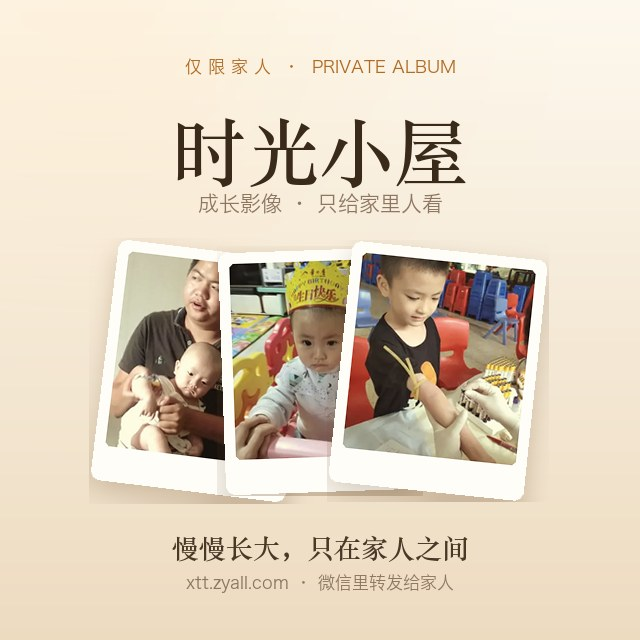
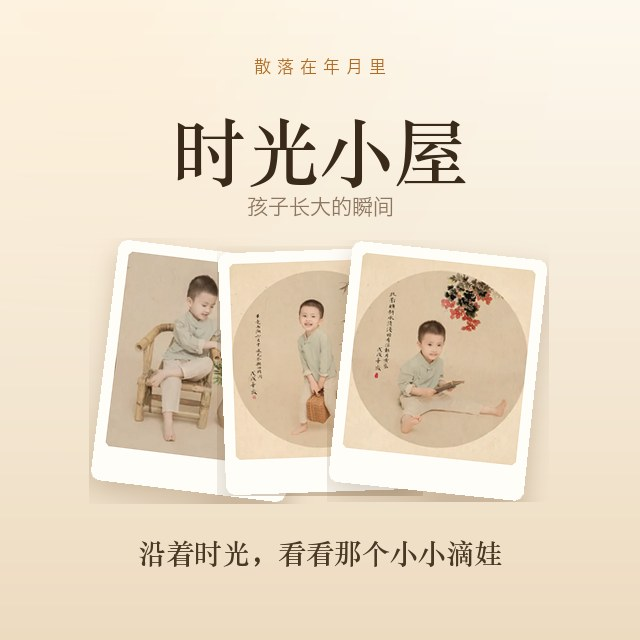
分享卡片定稿：改用用户手挑的 46/47/48 三张，副标题下移 3px
1) 选片写死为候选表里的 46 / 47 / 48（DEFAULT_PHOTOS）：同一套国风写真，
   米白底 + 圆形构图，跟奶油色卡片底色几乎是同一个色系，不需要再靠暖调硬拉。
   自动打分只能判「有没有人、颜色搭不搭」，判不了「好不好看」，所以定稿不走算法。
   rank>0 仍可回退到自动选片继续出候选。
2) 副标题「孩子长大的瞬间」y 192 → 195。
3) 新增 .workbuddy/icons/make_contact_sheet.py：生成 48 格带编号的候选接触表，
   换片时重跑一次就能继续按号点选。

diff --git a/.workbuddy/icons/make_share_card.py b/.workbuddy/icons/make_share_card.py
@@ -62,6 +62,15 @@ AMBER = (176, 106, 34)
 
 SAMPLE = 140          # 从全量里抽样评估的张数（全量 2000+，逐张跑人脸太慢）
 
+# 定稿选片：2026-11-06 用户从 48 张候选表里手挑的 46 / 47 / 48，
+# 同一套国风写真，米白底 + 圆形构图，和奶油色卡片底色几乎同源。
+# 自动打分能判「有没有人、颜色搭不搭」，判不了「好不好看」，所以定稿写死。
+DEFAULT_PHOTOS = [
+    'gallery/thumbs/d3/d36ced41d17b13da.webp',   # 46 竹椅上
+    'gallery/thumbs/b6/b6550124ee58c5fa.webp',   # 47 提竹篮
+    'gallery/thumbs/1e/1edf8e46ce964bc1.webp',   # 48 持折扇
+]
+
 
 def vertical_gradient(size, top, bottom):
     w, h = size
@@ -180,8 +189,9 @@ def warmify(img):
     return Image.blend(out, tint, 0.05)
 
 
-def pick_photos(n=3):
-    """按时间三等分，每段挑一张最暖、最像「孩子照片」的，保证跨年份但不写明"""
+def pick_photos(n=3, rank=0):
+    """按时间三等分，每段挑一张最暖、最像「孩子照片」的，保证跨年份但不写明。
+    rank=1/2 取该段的次优、第三优，用来出多个候选版本。"""
     with open(DATA, encoding='utf-8') as f:
         items = json.load(f)['items']
     pool = [it for it in items if it.get('th') and it.get('t') == 'i']
@@ -213,13 +223,13 @@ def pick_photos(n=3):
         seg = seg or [x for x in base if x['path'] not in used]
         if not seg:
             break
-        best = max(seg, key=lambda x: x['score'])
+        best = sorted(seg, key=lambda x: -x['score'])[min(rank, len(seg) - 1)]
         picks.append(best['path'])
         used.add(best['path'])
     return picks[:n]
 
 
-def main():
+def main(out=OUT, rank=0, manual=None):
     canvas = vertical_gradient((S, S), CREAM_TOP, CREAM_BOT)
     glow, mask = warm_glow((S, S))
     canvas = Image.composite(glow, canvas, mask).convert('RGBA')
@@ -234,12 +244,19 @@ def main():
         w = d.textlength(text, font=font)
         d.text(((S - w) / 2, y), text, font=font, fill=fill)
 
-    # 文案里不出现任何数字与年份：加照片、跨年份都不会让这张图过时
-    center('仅 限 家 人  ·  PRIVATE ALBUM', f_kick, 58, AMBER)
+    # 文字全部取自这句：把散落在年月里孩子长大的瞬间收起来，沿着时光看看那个小小滴娃
+    # 上中下三行互不重复，也不出现「仅限家人」和网址
+    center('散 落 在 年 月 里', f_kick, 58, AMBER)
     center('时光小屋', f_title, 96, INK)
-    center('成长影像 · 只给家里人看', f_sub, 192, INK_SOFT)
+    center('孩子长大的瞬间', f_sub, 195, INK_SOFT)
 
-    photos = pick_photos(3)
+    if manual:
+        photos = [p if os.path.isabs(p) else os.path.join(ROOT, p) for p in manual]
+    elif rank == 0:
+        # 正式图用定稿三张；rank>0 才回去跑自动选片，方便再出候选
+        photos = [os.path.join(ROOT, p) for p in DEFAULT_PHOTOS]
+    else:
+        photos = pick_photos(3, rank)
     slots = [(-118, -7), (0, 2), (118, -6)]
     base_y = 250
     for i, (dx, rot) in enumerate(slots):
@@ -260,15 +277,19 @@ def main():
         canvas.paste(Image.new('RGBA', card.size, (96, 64, 32, 255)), (x, y), shadow)
         canvas.paste(card, (x, y), card)
 
-    center('慢慢长大，只在家人之间', ImageFont.truetype(SERIF, 27, index=1), 528, (74, 56, 38))
-    center('xtt.zyall.com · 微信里转发给家人', f_foot, 574, INK_SOFT)
+    center('沿着时光，看看那个小小滴娃', ImageFont.truetype(SERIF, 28, index=1), 532, (74, 56, 38))
 
-    os.makedirs(os.path.dirname(OUT), exist_ok=True)
-    canvas.convert('RGB').save(OUT, 'JPEG', quality=88, optimize=True, progressive=True)
-    print(f'{OUT}  {S}×{S}  {os.path.getsize(OUT) / 1024:.1f} KB  照片 {len(photos)} 张')
+    os.makedirs(os.path.dirname(out), exist_ok=True)
+    canvas.convert('RGB').save(out, 'JPEG', quality=88, optimize=True, progressive=True)
+    print(f'{out}  {S}×{S}  {os.path.getsize(out) / 1024:.1f} KB  照片 {len(photos)} 张')
     for p in photos:
         print('  ', os.path.relpath(p, ROOT))
 
 
 if __name__ == '__main__':
-    main()
+    # 用法：python3 make_share_card.py [输出路径] [rank] [图1,图2,图3]
+    # rank=0 最优选片（默认产出正式图），1/2 取次优；给了第三参数就直接用指定照片
+    _out = sys.argv[1] if len(sys.argv) > 1 else OUT
+    _rank = int(sys.argv[2]) if len(sys.argv) > 2 else 0
+    _manual = sys.argv[3].split(',') if len(sys.argv) > 3 and sys.argv[3] else None
+    main(_out, _rank, _manual)

diff --git a/.workbuddy/icons/make_contact_sheet.py b/.workbuddy/icons/make_contact_sheet.py
@@ -1,0 +1,123 @@
+#!/usr/bin/env python3
+"""生成候选照片接触表，供人工挑选分享卡片的配图。
+
+分享图的「好看」没法靠打分完全判断（表情、构图、有没有意思），所以把候选
+铺成一张带编号的网格，人工圈号最省事。每格已经过 warmify，看到的就是成品效果。
+
+用法：
+    PYTHONPATH=/tmp/qrlib python3 .workbuddy/icons/make_contact_sheet.py [候选张数]
+输出：
+    /tmp/cards/candidates.jpg   编号网格
+    /tmp/cards/candidates.json  编号 → 原图路径
+"""
+import importlib.util
+import json
+import os
+import sys
+
+from PIL import Image, ImageDraw, ImageFont
+
+HERE = os.path.dirname(os.path.abspath(__file__))
+spec = importlib.util.spec_from_file_location('card', os.path.join(HERE, 'make_share_card.py'))
+card = importlib.util.module_from_spec(spec)
+spec.loader.exec_module(card)
+
+import numpy as np
+
+CELL, PAD, COLS = 200, 10, 6
+SANS = card.SANS
+OUT_DIR = '/tmp/cards'
+
+WANT = int(sys.argv[1]) if len(sys.argv) > 1 else 48
+POOL = 420          # 参与打分的抽样张数
+
+
+def sharpness(img):
+    import cv2
+    g = cv2.cvtColor(np.asarray(img.convert('RGB')), cv2.COLOR_RGB2GRAY)
+    return float(cv2.Laplacian(g, cv2.CV_64F).var())
+
+
+def square(img, size):
+    w, h = img.size
+    s = min(w, h)
+    img = img.crop(((w - s) // 2, (h - s) // 2, (w + s) // 2, (h + s) // 2))
+    return img.resize((size, size), Image.LANCZOS)
+
+
+def main():
+    with open(card.DATA, encoding='utf-8') as f:
+        items = json.load(f)['items']
+    pool = [it for it in items if it.get('th') and it.get('t') == 'i']
+    if not pool:
+        sys.exit('清单里没有照片')
+
+    step = max(1, len(pool) // POOL)
+    cand = [(i * step, it) for i, it in enumerate(pool[::step][:POOL])]
+
+    rows = []
+    for idx, it in cand:
+        path = os.path.join(card.ROOT, it['th'])
+        try:
+            im = Image.open(path).convert('RGB')
+        except Exception:
+            continue
+        small = im.copy()
+        small.thumbnail((320, 320), Image.LANCZOS)
+        base, has_face = card.photo_score(small)
+        if not has_face:                       # 只要画面里能看见人的
+            continue
+        rows.append({'i': idx, 'score': base + min(1.0, sharpness(small) / 320) * 16,
+                     'path': path})
+
+    if not rows:
+        sys.exit('没有可用候选')
+
+    # 按时间分 8 段各取若干，避免 48 张全挤在同一年
+    rows.sort(key=lambda r: r['i'])
+    segs = 8
+    per = max(1, WANT // segs)
+    picks = []
+    n = len(rows)
+    for k in range(segs):
+        seg = rows[n * k // segs: n * (k + 1) // segs]
+        seg.sort(key=lambda r: -r['score'])
+        picks.extend(seg[:per])
+    picks = picks[:WANT]
+    picks.sort(key=lambda r: r['i'])
+
+    grid_r = (len(picks) + COLS - 1) // COLS
+    W = COLS * (CELL + PAD) + PAD
+    H = grid_r * (CELL + PAD) + PAD
+    sheet = Image.new('RGB', (W, H), (250, 245, 236))
+    d = ImageDraw.Draw(sheet)
+    f_no = ImageFont.truetype(SANS, 26)
+    mapping = {}
+
+    for n, r in enumerate(picks, 1):
+        try:
+            im = card.warmify(Image.open(r['path']).convert('RGB'))
+        except Exception:
+            continue
+        im = square(im, CELL)
+        x = PAD + (n - 1) % COLS * (CELL + PAD)
+        y = PAD + (n - 1) // COLS * (CELL + PAD)
+        sheet.paste(im, (x, y))
+        # 编号：半透明白底压在左上角，深色数字
+        tag = str(n)
+        tw = d.textlength(tag, font=f_no)
+        d.rounded_rectangle([x + 6, y + 6, x + 6 + tw + 16, y + 6 + 36], radius=8,
+                            fill=(255, 253, 247))
+        d.text((x + 14, y + 8), tag, font=f_no, fill=(58, 42, 26))
+        mapping[n] = os.path.relpath(r['path'], card.ROOT)
+
+    os.makedirs(OUT_DIR, exist_ok=True)
+    out = os.path.join(OUT_DIR, 'candidates.jpg')
+    sheet.save(out, 'JPEG', quality=90, optimize=True, progressive=True)
+    with open(os.path.join(OUT_DIR, 'candidates.json'), 'w', encoding='utf-8') as f:
+        json.dump(mapping, f, ensure_ascii=False, indent=1)
+    print(f'{out}  {W}×{H}  {os.path.getsize(out) / 1024:.0f} KB  {len(mapping)} 张')
+
+
+if __name__ == '__main__':
+    main()
